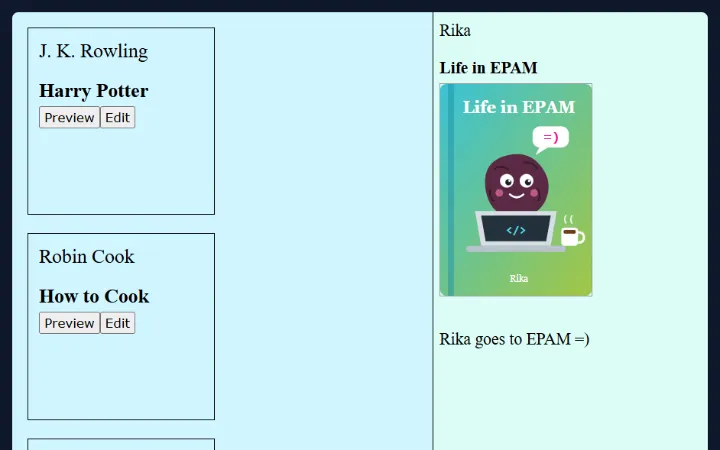
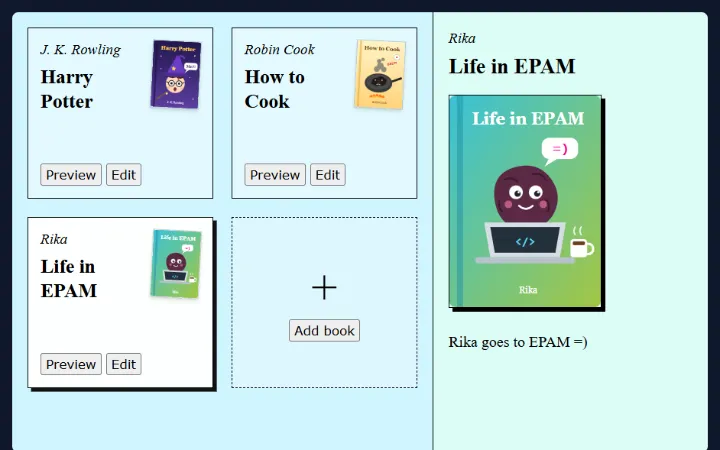
Polish the HW15 book cards
Keep the original look, but tidier: the cover peeks out of each card's
corner, the buttons sit at the bottom with a gap, the open book's card
is white with a retro black shadow, Add book is a dashed card with a
big plus, and the preview panel has more room and the same shadow on
the cover.

diff --git a/src/homework/hw15-bom-books/Books.tsx b/src/homework/hw15-bom-books/Books.tsx
@@ -1,6 +1,16 @@
 import { type FormEvent, type ReactNode, useEffect, useRef, useState } from 'react'
-import { Link, Navigate, Route, Routes, useLocation, useNavigate, useParams } from 'react-router'
+import {
+  Link,
+  Navigate,
+  Route,
+  Routes,
+  useLocation,
+  useMatch,
+  useNavigate,
+  useParams,
+} from 'react-router'
 import { Dialog } from '../../components/Dialog'
+import { cx } from '../../components/ui'
 import { type Book, type BookFields, DEFAULT_COVER, useBooks } from './useBooks'
 
 const BASE = '/hw/15-bom-books'
@@ -19,8 +29,10 @@ const bookPath = (id: number) => `${BASE}/books/${id}`
 const defaultButton =
   'inline-block cursor-pointer rounded-[3px] border border-[#767676] bg-[#efefef] px-1.5 py-px font-verdana text-[1.05rem] text-black hover:bg-[#e5e5e5]'
 
-/** A book card of the original page: a black-bordered square. */
-const card = 'h-[15.3rem] w-[15.3rem] overflow-hidden border border-black p-3.5'
+/** A book card of the original page, a black-bordered box, with a retro shadow when it is open. */
+const card =
+  'relative flex min-h-[14rem] flex-col border border-black p-4 transition-[box-shadow,background-color]'
+const retroShadow = 'shadow-[5px_5px_0_#000]'
 
 // Routes: index → list only, books/new → add, books/:id → preview, books/:id/edit → edit.
 // Anything else (unknown id, unknown path) falls back to the list.
@@ -54,11 +66,11 @@ export default function Books() {
     <div className="flex min-h-[36rem] flex-col overflow-hidden rounded-lg font-times text-black md:flex-row">
       <BookList books={books} />
 
-      <section className="min-h-72 border-black bg-[#dcfcf6] p-2 max-md:border-t md:w-[22.5rem] md:shrink-0 md:border-l">
+      <section className="min-h-72 border-black bg-[#dcfcf6] p-5 max-md:border-t md:w-[22.5rem] md:shrink-0 md:border-l">
         <Routes>
           <Route
             index
-            element={<p className="text-[1.2rem]">Select a book to see the details.</p>}
+            element={<p className="text-[1.2rem] italic">Select a book to see the details.</p>}
           />
           <Route path="books/new" element={<BookForm onSave={handleSave} />} />
           <Route
@@ -95,15 +107,30 @@ function WithBook({ books, render }: { books: Book[]; render: (book: Book) => Re
 
 function BookList({ books }: { books: Book[] }) {
   const location = useLocation()
+  const activeId = useMatch({ path: `${BASE}/books/:id`, end: false })?.params.id
 
   return (
     <section aria-label="Books" className="flex-1 bg-[#cff5fe] p-5">
-      <ul className="flex flex-wrap gap-x-11 gap-y-6">
+      <ul className="grid grid-cols-[repeat(auto-fill,minmax(13.5rem,1fr))] gap-6">
         {books.map((book) => (
-          <li key={book.id} className={card}>
-            <p className="text-[1.6rem] leading-tight">{book.author}</p>
-            <h3 className="mt-5 text-[1.6rem] leading-tight font-bold">{book.title}</h3>
-            <p className="mt-1">
+          <li
+            key={book.id}
+            className={cx(
+              card,
+              String(book.id) === activeId
+                ? `bg-white ${retroShadow}`
+                : 'bg-white/40 hover:bg-white/70 hover:shadow-[3px_3px_0_#000]',
+            )}
+          >
+            {/* The cover peeks out of the corner; the title says what it is. */}
+            <Cover
+              book={book}
+              alt=""
+              className="absolute top-4 right-4 w-16 rotate-3 border border-black/20 shadow-md"
+            />
+            <p className="pr-20 text-[1.2rem] leading-tight italic">{book.author}</p>
+            <h3 className="mt-2 pr-20 text-[1.6rem] leading-tight font-bold">{book.title}</h3>
+            <p className="mt-auto flex gap-1.5 pt-4">
               <Link
                 to={bookPath(book.id)}
                 aria-label={`Preview ${book.title}`}
@@ -122,11 +149,14 @@ function BookList({ books }: { books: Book[] }) {
             </p>
           </li>
         ))}
-        <li className={card}>
+        <li className="flex min-h-[14rem] flex-col items-center justify-center gap-3 border border-dashed border-black bg-white/30">
+          <span aria-hidden="true" className="text-6xl leading-none">
+            +
+          </span>
           <Link
             to={`${BASE}/books/new`}
             state={{ from: location.pathname }}
-            className={`${defaultButton} mt-1`}
+            className={defaultButton}
           >
             Add book
           </Link>
@@ -136,22 +166,33 @@ function BookList({ books }: { books: Book[] }) {
   )
 }
 
+/** The cover of a book, or the default cover when its image does not load. */
+function Cover({ book, alt, className }: { book: Book; alt: string; className?: string }) {
+  return (
+    <img
+      src={book.image || DEFAULT_COVER}
+      alt={alt}
+      onError={(event) => {
+        if (!event.currentTarget.src.endsWith('book-cover.svg')) {
+          event.currentTarget.src = DEFAULT_COVER
+        }
+      }}
+      className={className}
+    />
+  )
+}
+
 function BookPreview({ book }: { book: Book }) {
   return (
-    <article className="text-[1.35rem]">
-      <p>{book.author}</p>
-      <h2 className="mt-4 font-bold">{book.title}</h2>
-      <img
-        src={book.image || DEFAULT_COVER}
+    <article>
+      <p className="text-[1.2rem] italic">{book.author}</p>
+      <h2 className="mt-1 text-[1.75rem] leading-tight font-bold">{book.title}</h2>
+      <Cover
+        book={book}
         alt={`Cover of ${book.title}`}
-        onError={(event) => {
-          if (!event.currentTarget.src.endsWith('book-cover.svg')) {
-            event.currentTarget.src = DEFAULT_COVER
-          }
-        }}
-        className="mt-1 w-[12.5rem] border border-[#999]"
+        className={`mt-5 w-[12.5rem] border border-black ${retroShadow}`}
       />
-      <p className="mt-10">{book.plot}</p>
+      <p className="mt-7 text-[1.25rem] leading-relaxed">{book.plot}</p>
     </article>
   )
 }
